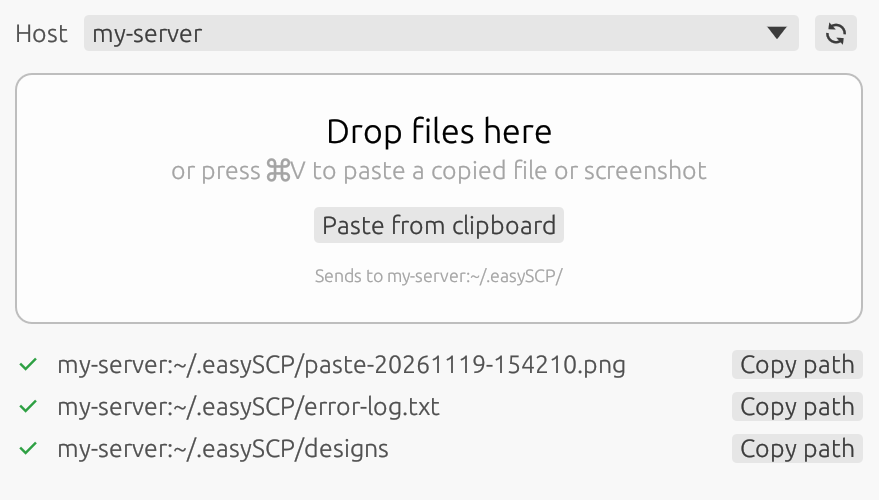
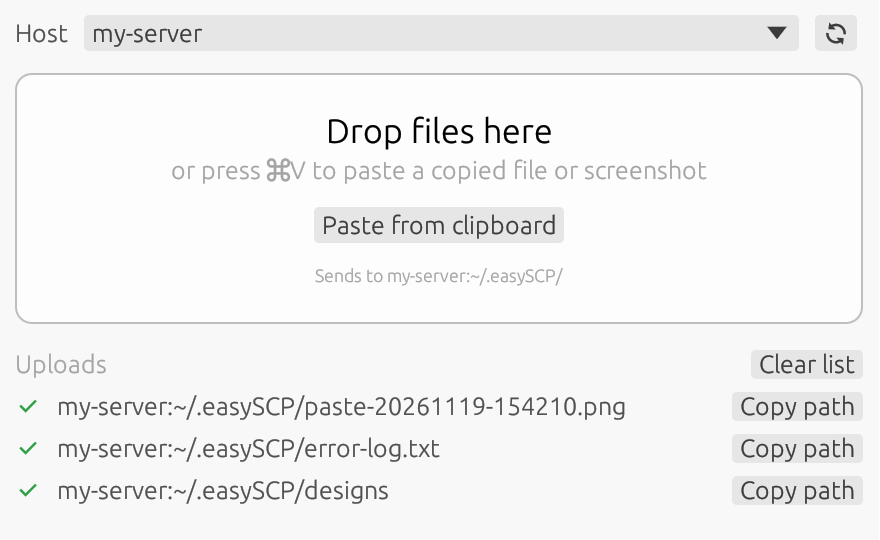
Describe Clear list in the README and update the screenshot

diff --git a/README.md b/README.md
@@ -40,6 +40,8 @@ Everything lands in `~/.easySCP/` on the server. The folder is created the first
 
 Click **Copy path** next to a finished upload to copy where it is on the server, for example `~/.easySCP/paste-20261119-154210.png`.
 
+When the list gets long, click **Clear list**. It only tidies the window: the files stay on the server, and anything still uploading stays in the list.
+
 > Tip: <kbd>⌃</kbd><kbd>⇧</kbd><kbd>⌘</kbd><kbd>4</kbd> copies a screenshot of a selected area straight to the clipboard.
 
 ### File names
